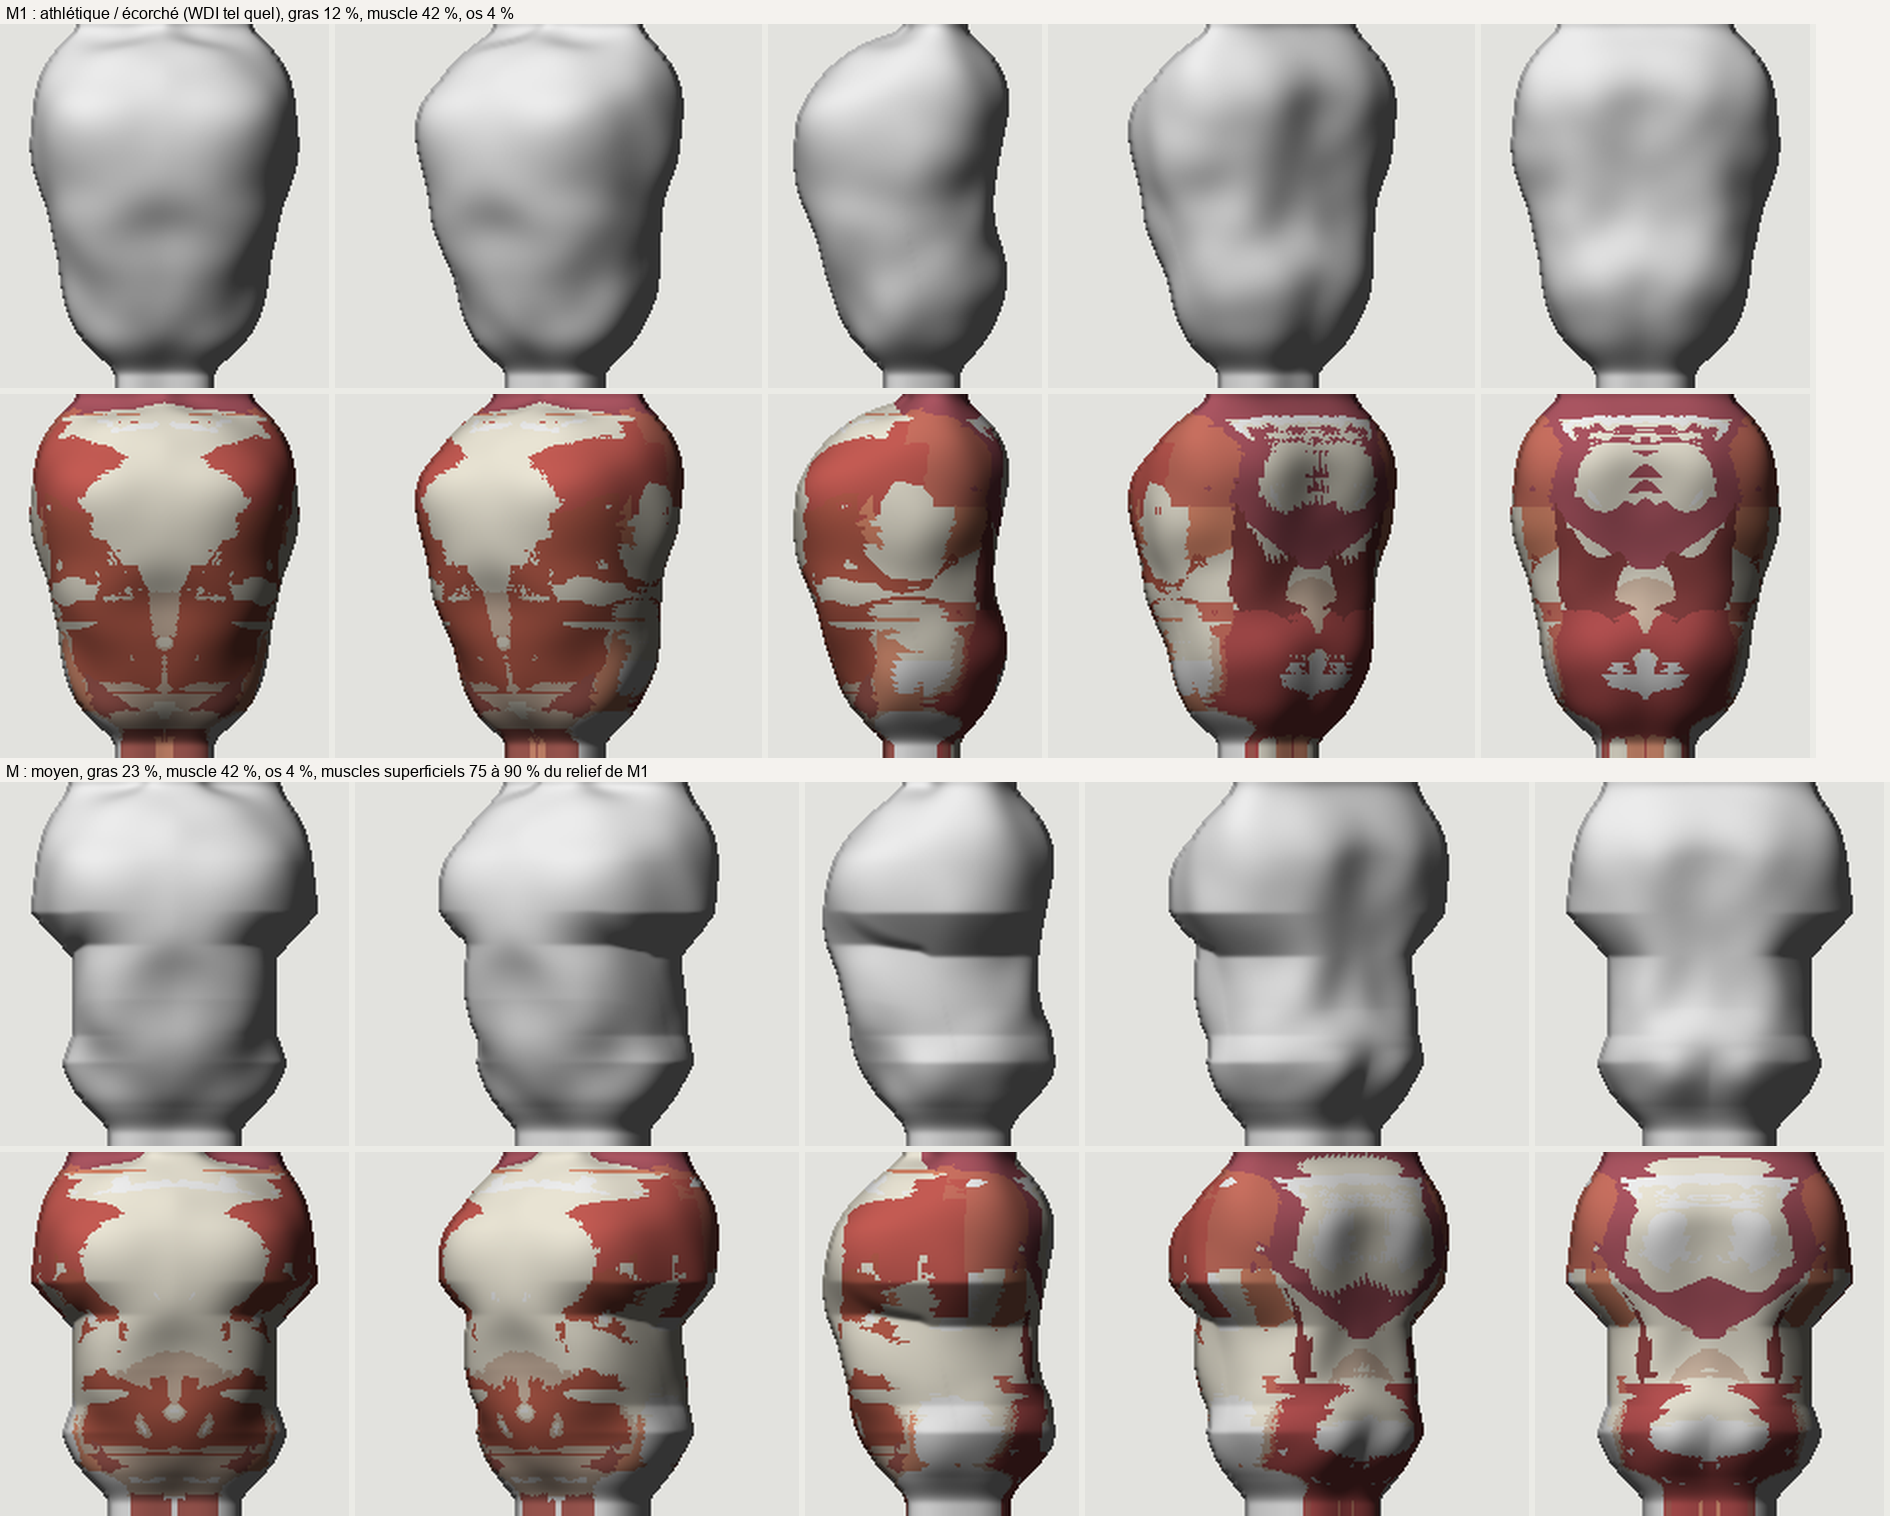
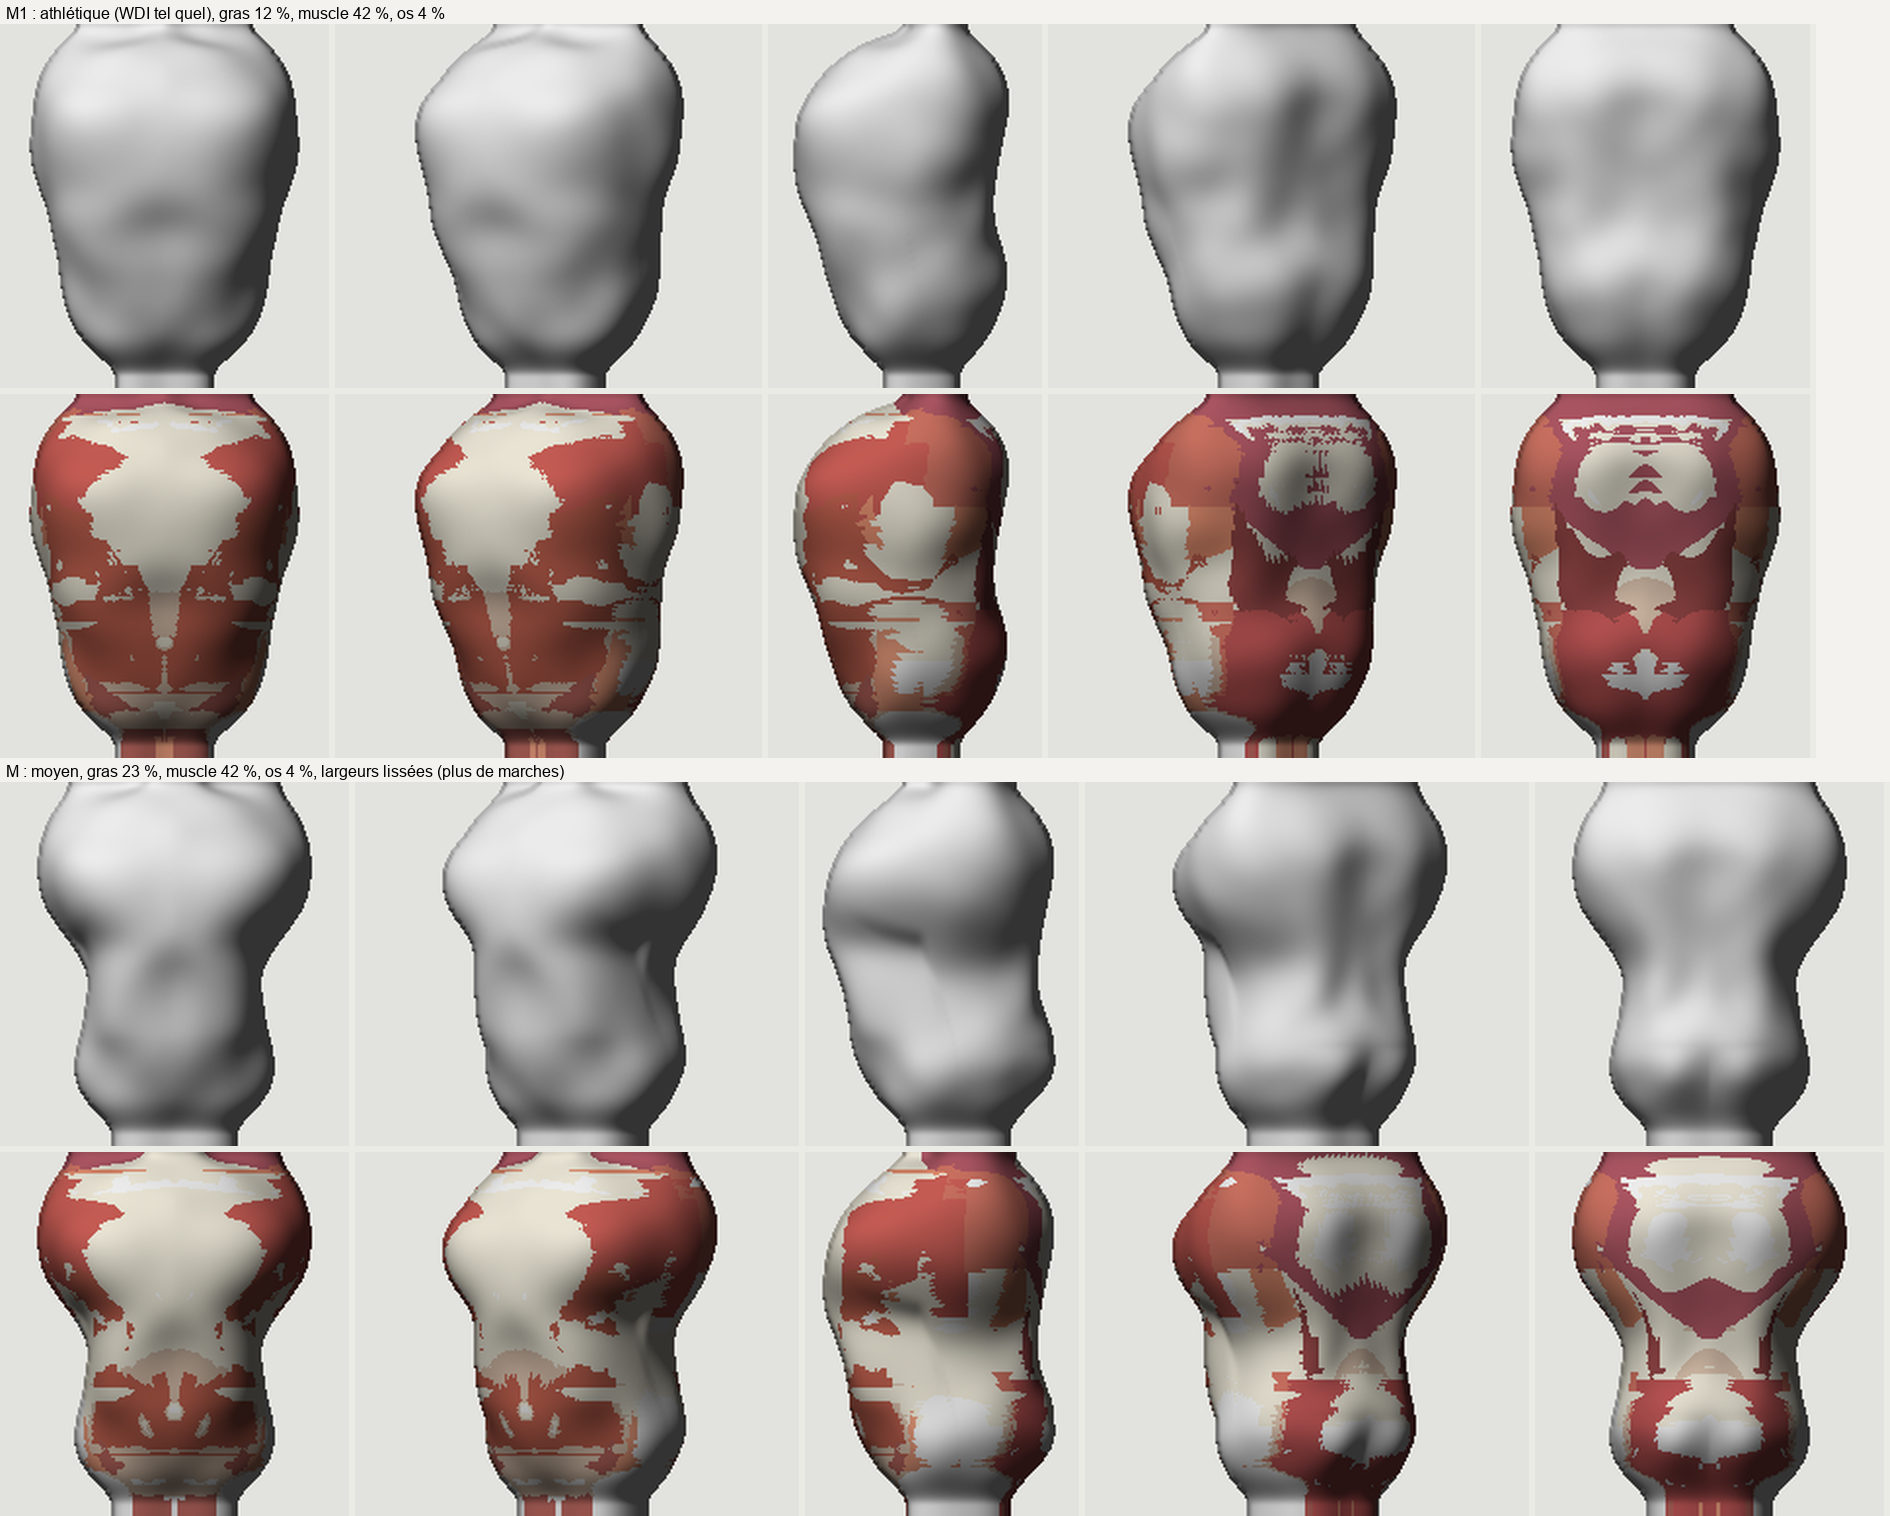
Body 3D: width and cage profiles smoothed along the rows (24 px), no more horizontal steps on M; widths re-solved over ten rounds (1 / 0.795 / 0.718 / 0.772)

diff --git a/Art/work/transfer-proto/fable-crack/proto.py b/Art/work/transfer-proto/fable-crack/proto.py
@@ -98,6 +98,7 @@ def width_scale(G, d, target):
 #   pecs: the front of the chest (rows 250..345, x < 85) lifted by pecs px, most at the under-chest fold;
 #   glutes: the back of the buttocks pushed back by glutes px and up by a third of it, round, centred on each cheek.
 SHAPE = {"M": dict(cage=12.0, pecs=12.0, glutes=7.0), "M1": dict(cage=0.0, pecs=0.0, glutes=0.0)}
+SHAPE_SMOOTH = 24.0   # px along the rows: the width and cage profiles are smoothed over this, no crease at their nodes
 
 
 def sstep(v):
@@ -121,10 +122,15 @@ def shaped(G, Gs, fields, rows, k, zc, sh):
     # pecs: output at R shows what was lower
     p = sh["pecs"] * bump(R, 315.0, 55.0) * sstep((85.0 - X) / 20.0) * front
     R = R + p
-    # cage: piecewise linear rows, output -> source
-    R = np.interp(R, [0.0, 232.0, 334.0 + sh["cage"], 422.0, 1000.0], [0.0, 232.0, 334.0, 422.0, 1000.0]).astype(np.float32)
-    # widths
-    X = X / np.interp(R, rows, k).astype(np.float32)
+    # cage and widths: the piecewise linear profiles creased the skin at every node (hard horizontal steps on M), so both
+    # are smoothed along the rows over SHAPE_SMOOTH px before use
+    rt = np.arange(100.0, 520.0, 0.5)
+    sg = SHAPE_SMOOTH / 0.5
+    cage = ndi.gaussian_filter1d(np.interp(rt, [0.0, 232.0, 334.0 + sh["cage"], 422.0, 1000.0], [0.0, 232.0, 334.0, 422.0, 1000.0]),
+                                 sg, mode="nearest")
+    R = np.interp(R, rt, cage).astype(np.float32)
+    kk = ndi.gaussian_filter1d(np.interp(rt, rows, k), sg, mode="nearest")
+    X = X / np.interp(R, rt, kk).astype(np.float32)
     co = np.stack([(R - Gs.r[0]) / Gs.h, X / Gs.h, (Z - Gs.z[0]) / Gs.h])
     out = []
     for a, order in fields:
@@ -314,7 +320,7 @@ def proto_board(name, h):
     _xm = np.nan_to_num(np.nanmax(s.last_cross(K["d"], 1, G.x), axis=1))
     print("half widths after the fat:", {n: round(float(np.interp(r, G.r, _xm)), 1) for n, r in WROWS.items()}, "grid x max", float(G.x[-1]))
     fat_map(G, d00, K["d"], near, F["lean"], name)
-    for it in range(4 if tgt is not None else 0):              # the shape edits move the rows: re-solve the widths on the result
+    for it in range(10 if tgt is not None else 0):             # the shape edits and the smoothing move the widths: re-solve them on the result
         d, o = shaped(Go, G, [(K["d"], 1), (K["owner"], 0)], rows, k, (T.rows, T.zc), SHAPE[name])
         xm = np.nan_to_num(np.nanmax(s.last_cross(d, 1, Go.x), axis=1))
         hw = lambda r: float(np.interp(r, Go.r, xm))
